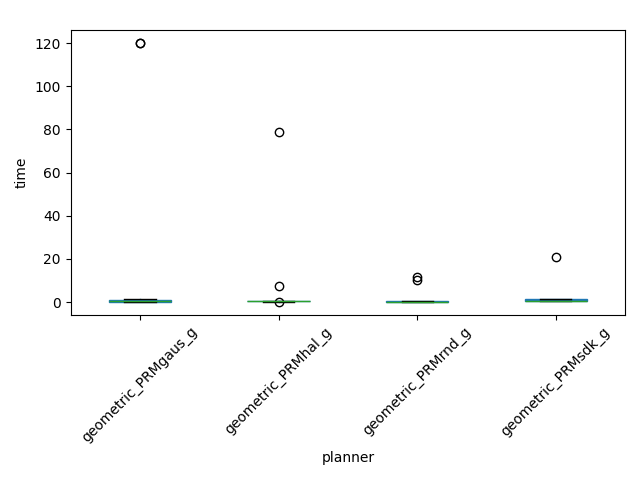
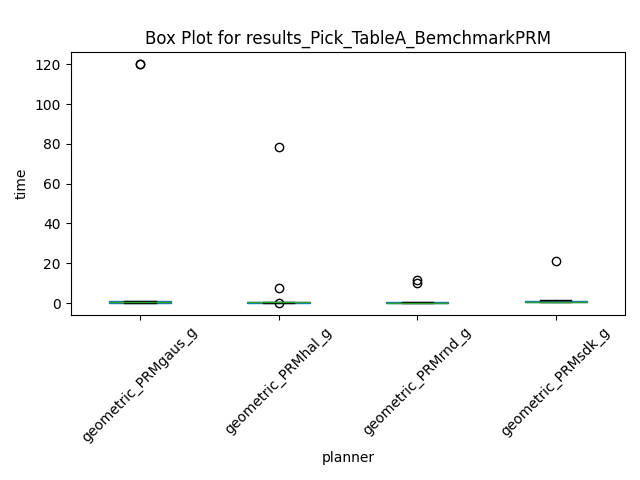
add boxplot title name

diff --git a/Benchmarks/generate_boxplot.py b/Benchmarks/generate_boxplot.py
@@ -41,8 +41,11 @@ def process_db_file(db_path, output_folder):
         for box in boxplot.artists:
             box.set_facecolor('#d4f8e8')
         
-        plt.title("")
-        plt.suptitle("")
+        # Incluir el nombre del archivo en el título
+        db_name = os.path.basename(db_path).replace('.db', '')
+        plt.title(f"Box Plot for {db_name}")
+        plt.suptitle("")  # Eliminar título superior por defecto
+        
         plt.xlabel("planner")
         plt.ylabel("time")
         plt.xticks(rotation=45)  # Rotar labels para mejor visibilidad
@@ -50,7 +53,6 @@ def process_db_file(db_path, output_folder):
         plt.tight_layout()
         
         # Guardar el gráfico
-        db_name = os.path.basename(db_path).replace('.db', '')
         output_path = os.path.join(output_folder, f"{db_name}_boxplot.png")
         plt.savefig(output_path)
         plt.close()
